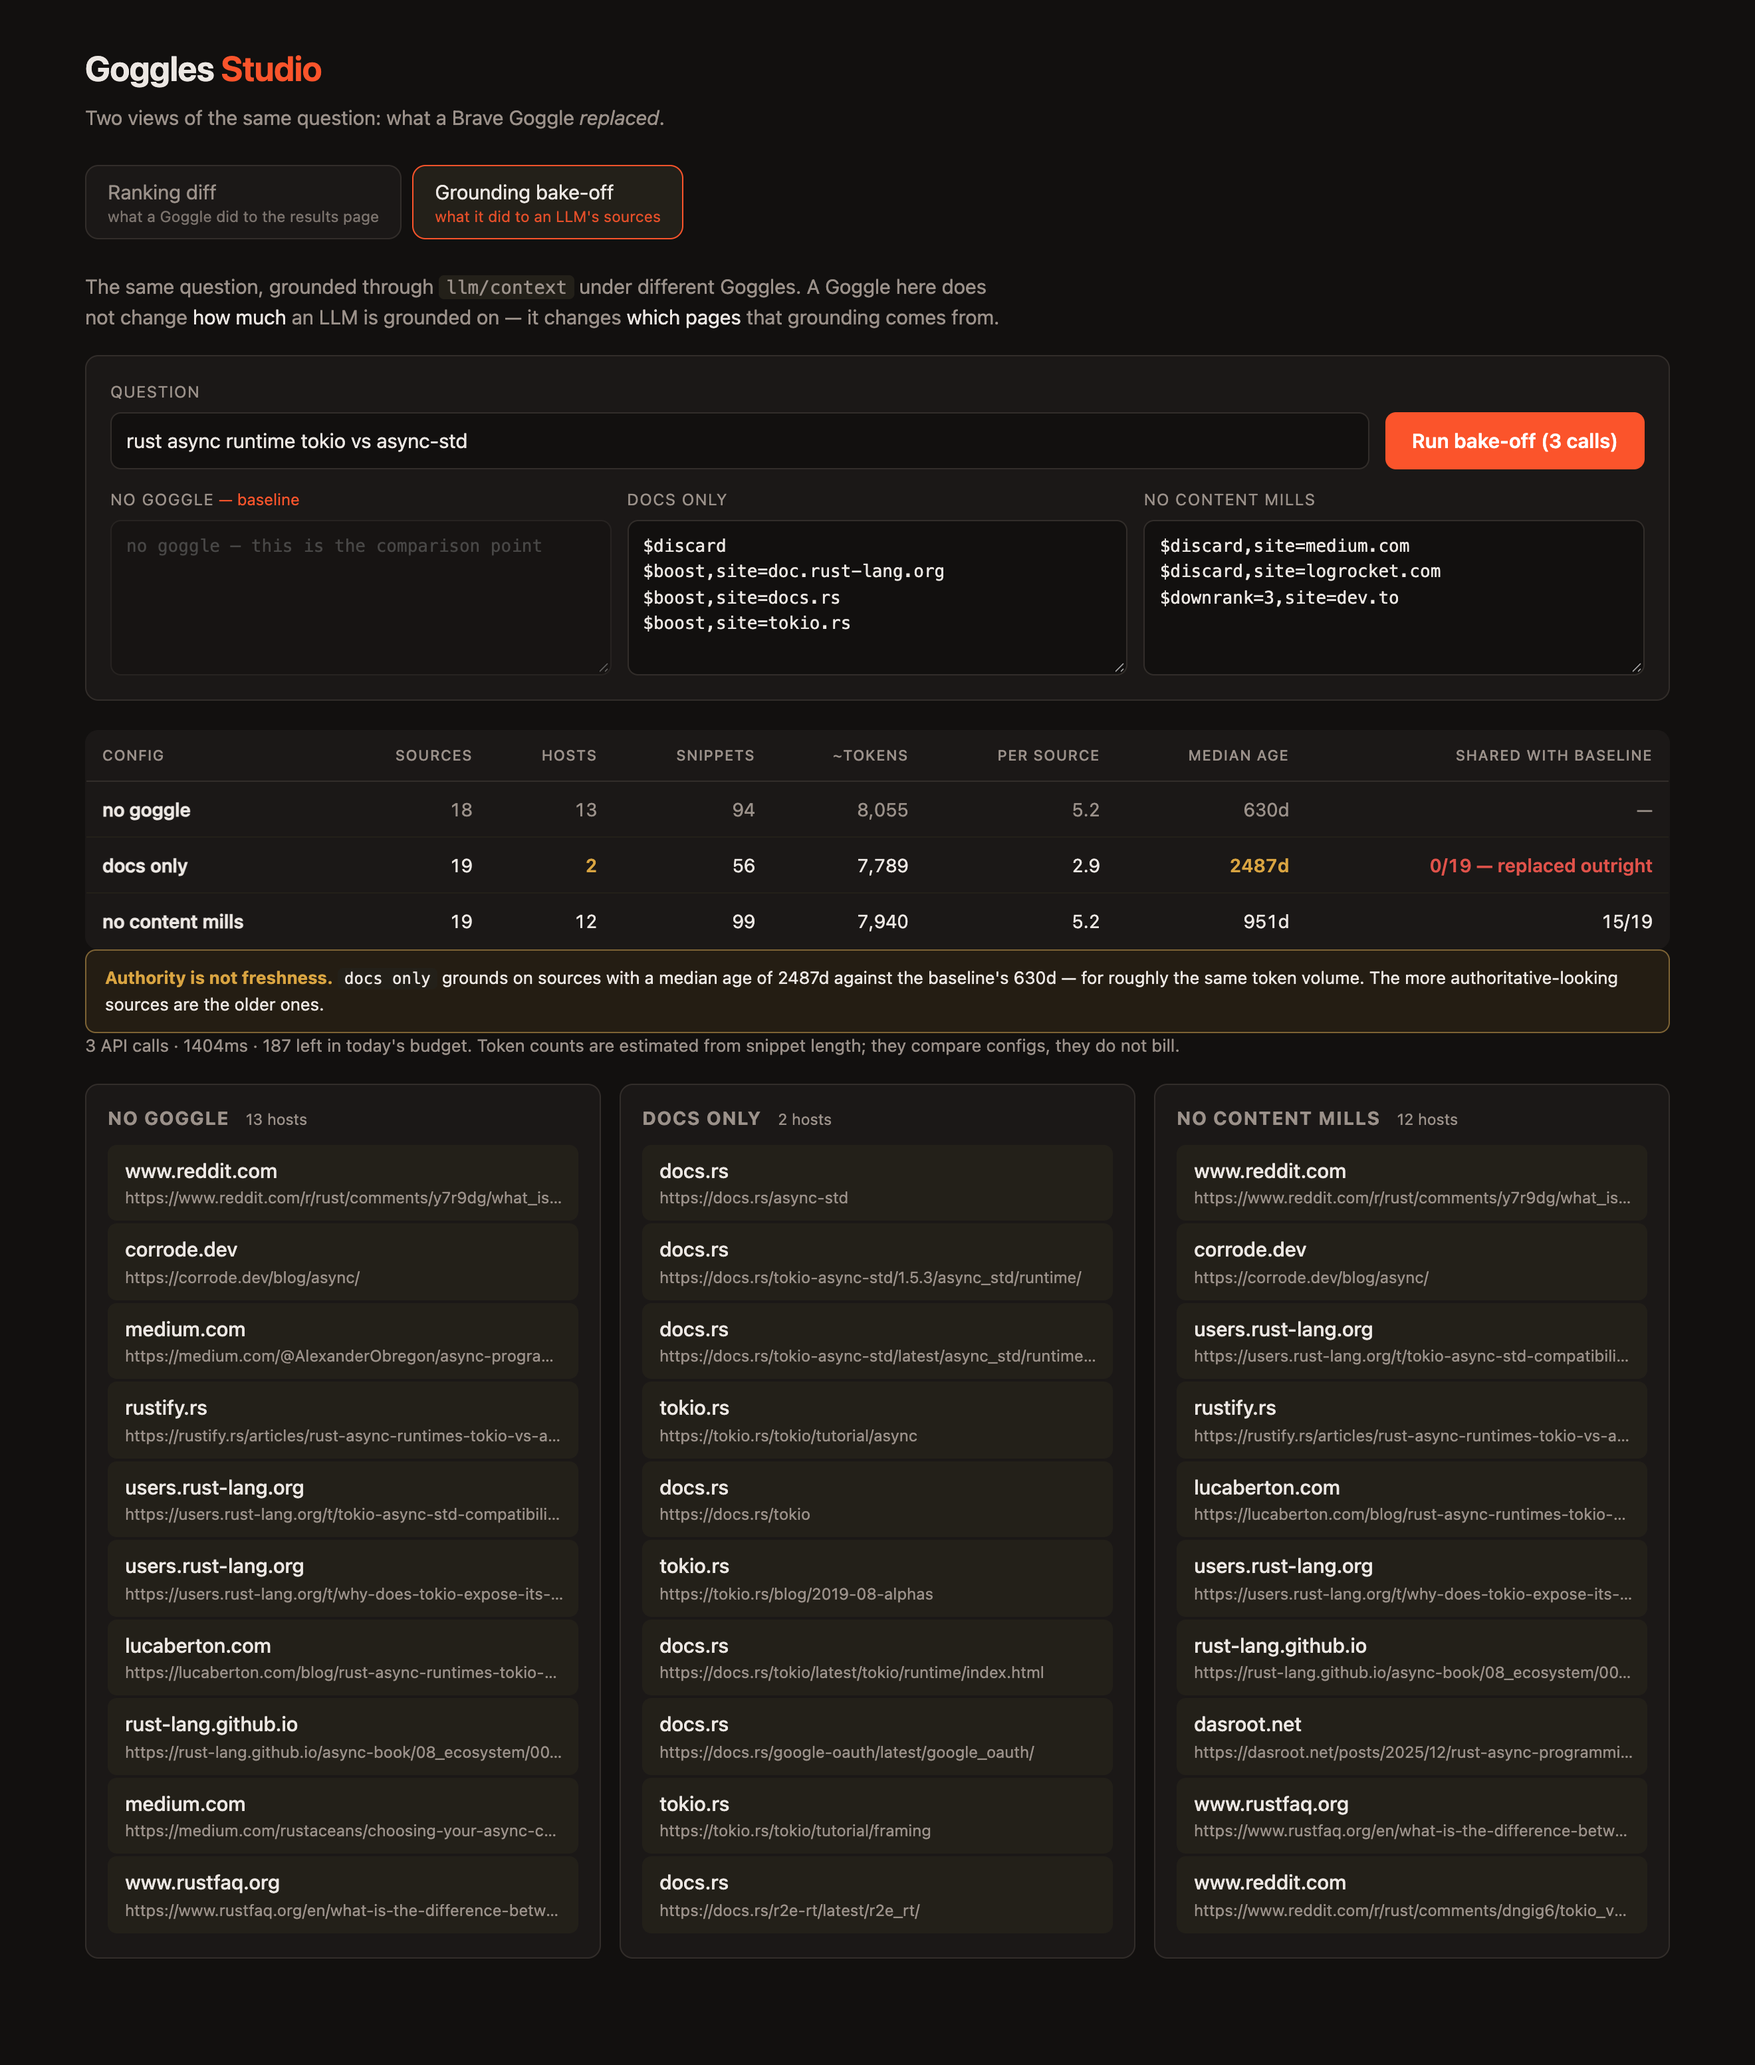
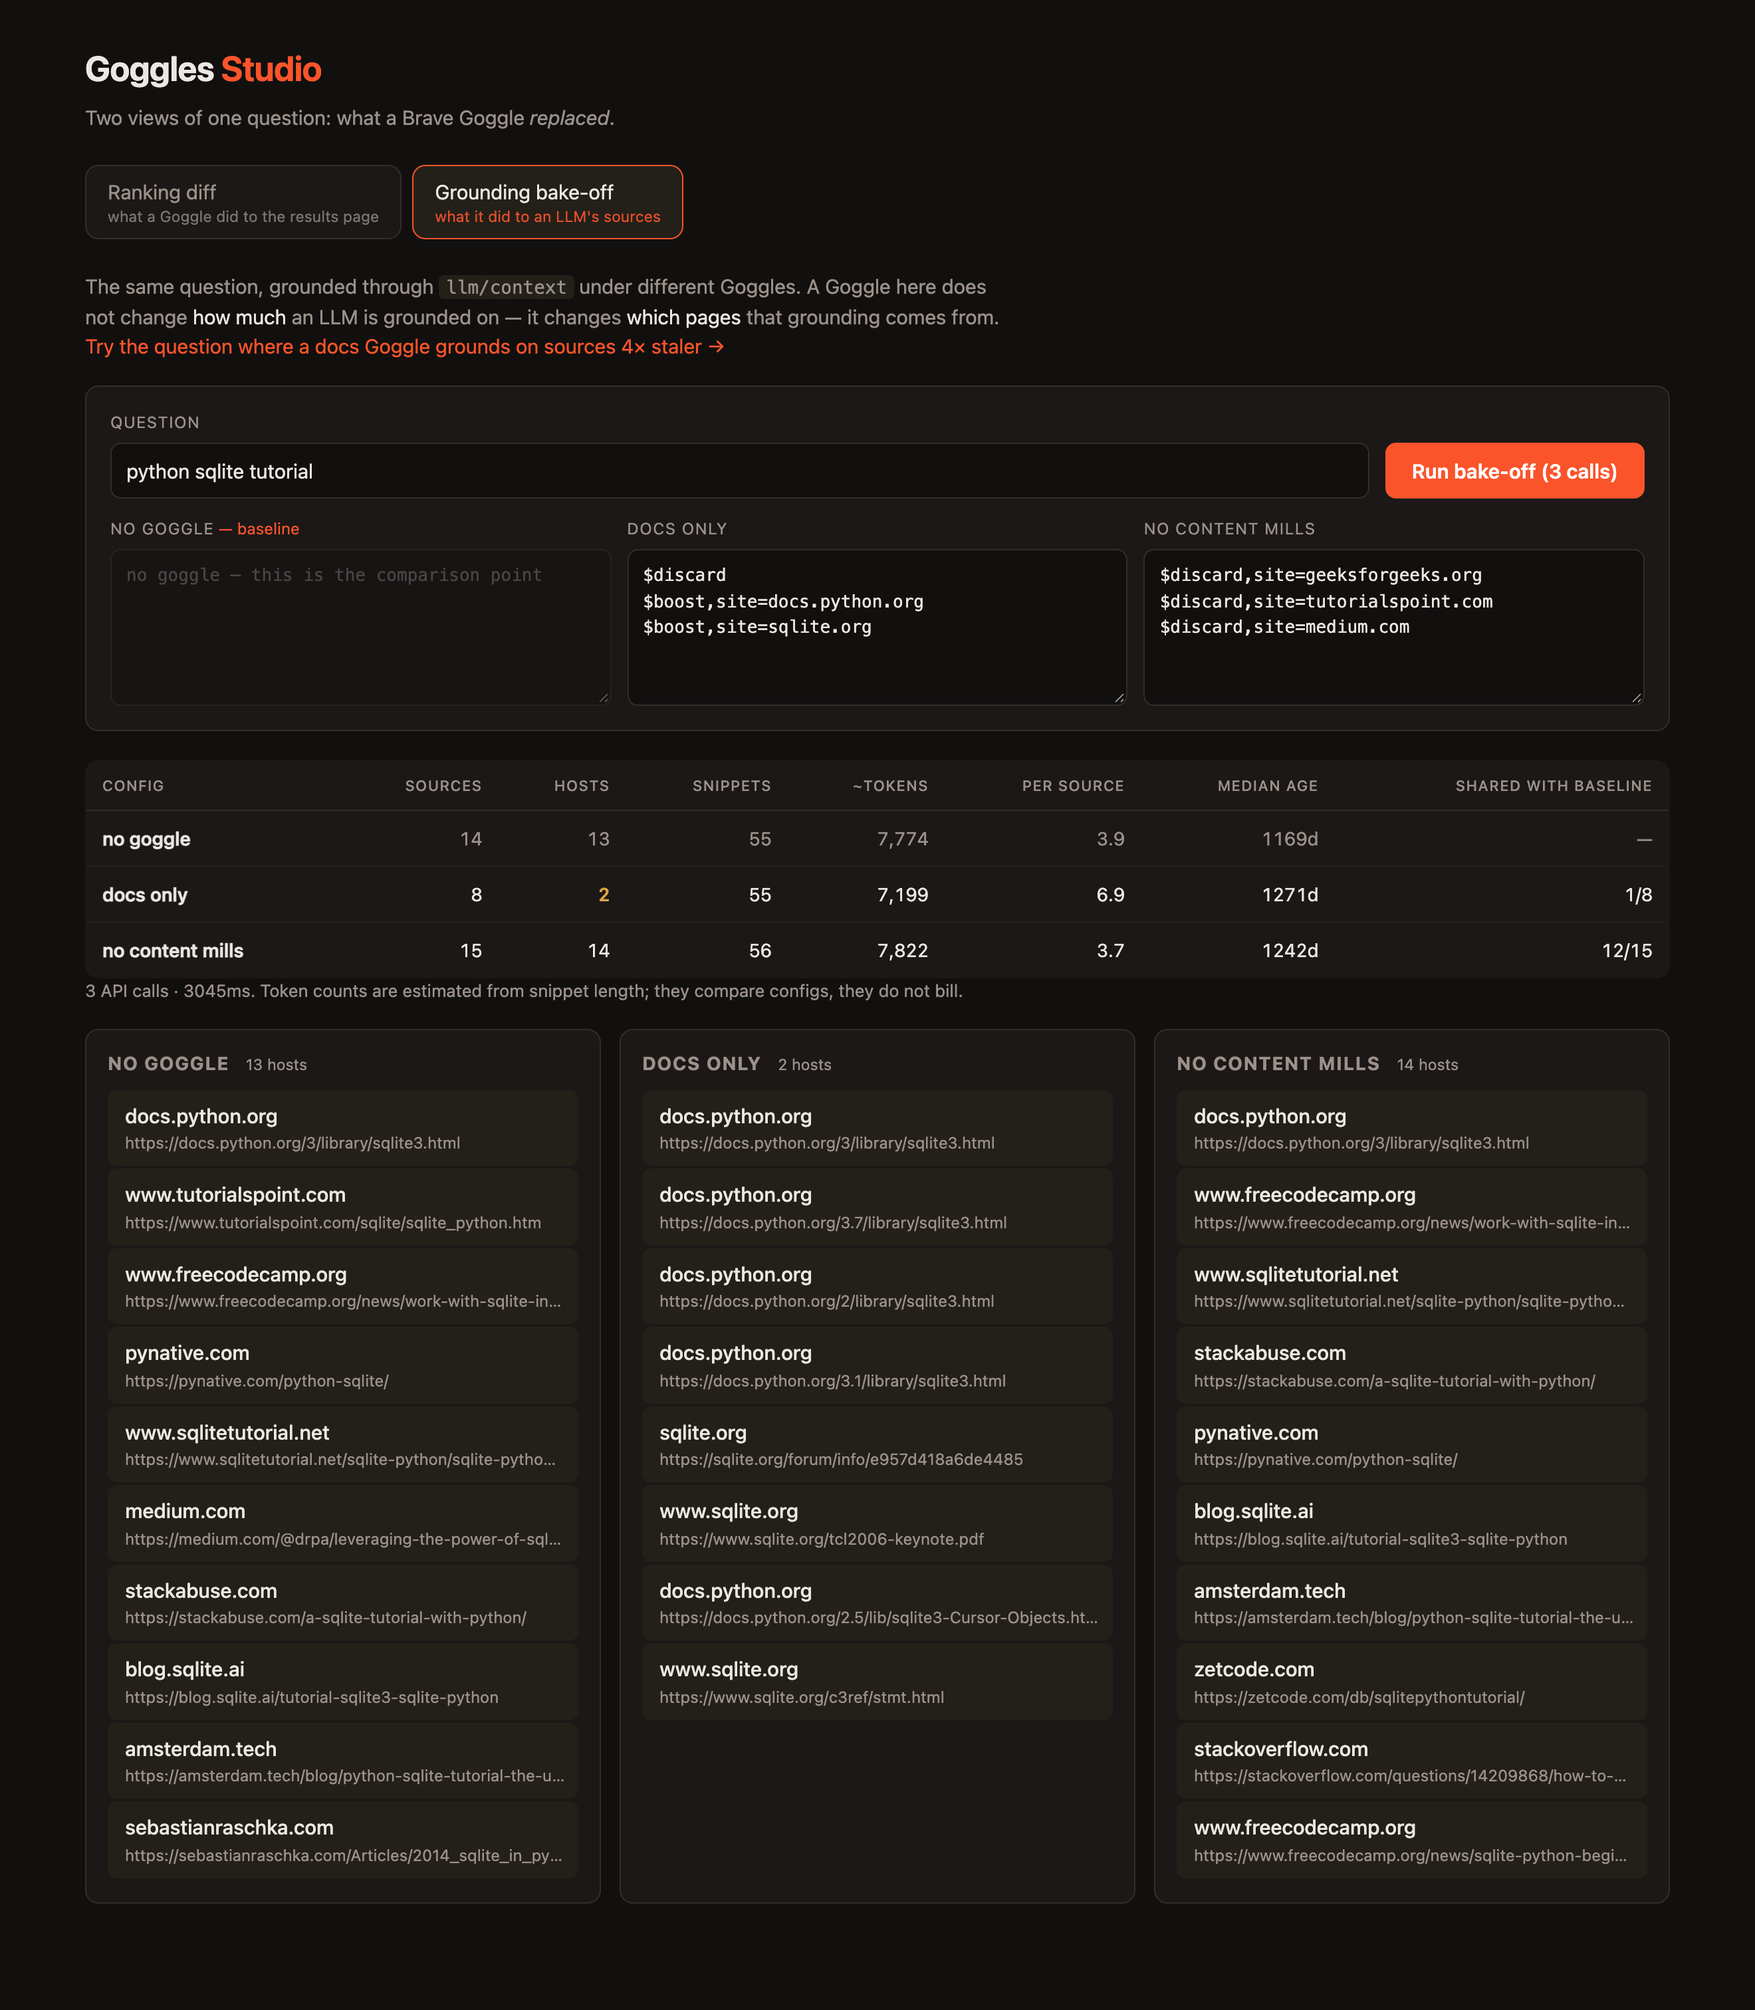
Share one query across both tabs
A short demo should ask the viewer to hold a single question in their head
while the two views change around it, so the query now lives in the shell and
both tabs read and write it. The bake-off's Goggles move from Rust hosts to
the Python ones that match the shared query.

That costs the freshness headline: on "python sqlite tutorial" the median
source age barely moves, where on the Rust question a docs Goggle grounded on
sources four times staler. The Rust case is kept as a one-click example in the
bake-off rather than lost.

The Python query turns out to demo the core point better anyway, because the
grounding sources are directly comparable to the ranking results on the other
tab. Of the 8 sources a docs-only Goggle grounds on, five are the same sqlite3
page at different Python versions and one is a Tcl keynote from 2006 — the
same $boost overshoot the ranking tab detects, one layer down.

diff --git a/src/ui/components/BakeOff.tsx b/src/ui/components/BakeOff.tsx
@@ -1,6 +1,6 @@
 import { useState } from 'react'
 import type { GroundingSummary, BaselineComparison } from '../../lib/grounding.js'
-import { GROUND_CONFIGS, GROUND_QUERY } from '../groundPresets.js'
+import { GROUND_CONFIGS, FRESHNESS_EXAMPLE } from '../groundPresets.js'
 
 interface ConfigResult {
   name: string
@@ -19,8 +19,12 @@ interface GroundResponse {
 
 const days = (n: number | null) => (n === null ? '—' : `${Math.round(n)}d`)
 
-export function BakeOff() {
-  const [query, setQuery] = useState(GROUND_QUERY)
+interface Props {
+  query: string
+  setQuery: (q: string) => void
+}
+
+export function BakeOff({ query, setQuery }: Props) {
   const [configs, setConfigs] = useState(GROUND_CONFIGS)
   const [data, setData] = useState<GroundResponse | null>(null)
   const [error, setError] = useState<string | null>(null)
@@ -46,6 +50,13 @@ export function BakeOff() {
     }
   }
 
+  /** Loads the question where the freshness gap is largest, Goggles and all. */
+  function loadFreshnessExample() {
+    setQuery(FRESHNESS_EXAMPLE.query)
+    setConfigs(FRESHNESS_EXAMPLE.configs)
+    setData(null)
+  }
+
   function editGoggle(i: number, goggle: string) {
     setConfigs((prev) => prev.map((c, j) => (j === i ? { ...c, goggle } : c)))
   }
@@ -64,7 +75,10 @@ export function BakeOff() {
       <p className="lede">
         The same question, grounded through <code>llm/context</code> under different Goggles.
         A Goggle here does not change <em>how much</em> an LLM is grounded on — it changes
-        <em> which pages</em> that grounding comes from.
+        <em> which pages</em> that grounding comes from.{' '}
+        <button className="linky" onClick={loadFreshnessExample}>
+          Try the question where a docs Goggle grounds on sources 4× staler →
+        </button>
       </p>
 
       <section className="controls">

diff --git a/src/ui/groundPresets.ts b/src/ui/groundPresets.ts
@@ -1,19 +1,41 @@
 /** A bake-off always starts from the ungoggled baseline the rest are measured against. */
-export const GROUND_QUERY = 'rust async runtime tokio vs async-std'
-
 export const GROUND_CONFIGS: { name: string; goggle: string }[] = [
   { name: 'no goggle', goggle: '' },
   {
     name: 'docs only',
     goggle: `$discard
-$boost,site=doc.rust-lang.org
-$boost,site=docs.rs
-$boost,site=tokio.rs`,
+$boost,site=docs.python.org
+$boost,site=sqlite.org`,
   },
   {
     name: 'no content mills',
-    goggle: `$discard,site=medium.com
-$discard,site=logrocket.com
-$downrank=3,site=dev.to`,
+    goggle: `$discard,site=geeksforgeeks.org
+$discard,site=tutorialspoint.com
+$discard,site=medium.com`,
   },
 ]
+
+/**
+ * A second question where the freshness gap is stark: boosting Rust's doc hosts
+ * grounds on sources roughly four times staler than the baseline. Offered as a
+ * one-click example so the default demo can stay on a single query.
+ */
+export const FRESHNESS_EXAMPLE = {
+  query: 'rust async runtime tokio vs async-std',
+  configs: [
+    { name: 'no goggle', goggle: '' },
+    {
+      name: 'docs only',
+      goggle: `$discard
+$boost,site=doc.rust-lang.org
+$boost,site=docs.rs
+$boost,site=tokio.rs`,
+    },
+    {
+      name: 'no content mills',
+      goggle: `$discard,site=medium.com
+$discard,site=logrocket.com
+$downrank=3,site=dev.to`,
+    },
+  ],
+}

diff --git a/src/ui/App.tsx b/src/ui/App.tsx
@@ -1,6 +1,7 @@
 import { useState } from 'react'
 import { RankingDiff } from './components/RankingDiff.js'
 import { BakeOff } from './components/BakeOff.js'
+import { PRESETS } from './presets.js'
 
 type Tab = 'ranking' | 'grounding'
 
@@ -11,6 +12,9 @@ const TABS: { id: Tab; label: string; blurb: string }[] = [
 
 export function App() {
   const [tab, setTab] = useState<Tab>('ranking')
+  // One query across both tabs: a short demo should only ask the viewer to hold
+  // a single question in their head while the two views change around it.
+  const [query, setQuery] = useState(PRESETS[0]!.query)
 
   return (
     <div className="app">
@@ -19,7 +23,7 @@ export function App() {
           Goggles <span>Studio</span>
         </h1>
         <p className="tagline">
-          Two views of the same question: what a Brave Goggle <em>replaced</em>.
+          Two views of one question: what a Brave Goggle <em>replaced</em>.
         </p>
         <nav className="tabs">
           {TABS.map((t) => (
@@ -35,7 +39,11 @@ export function App() {
         </nav>
       </header>
 
-      {tab === 'ranking' ? <RankingDiff /> : <BakeOff />}
+      {tab === 'ranking' ? (
+        <RankingDiff query={query} setQuery={setQuery} />
+      ) : (
+        <BakeOff query={query} setQuery={setQuery} />
+      )}
     </div>
   )
 }

diff --git a/src/ui/styles.css b/src/ui/styles.css
@@ -192,3 +192,9 @@ table.bake .gone { color: var(--gone); font-weight: 600; }
 .source-lists { display: grid; grid-template-columns: repeat(auto-fit, minmax(280px, 1fr)); gap: 14px; margin-top: 18px; }
 .source-lists .column ol { counter-reset: none; }
 .source-lists .column li { grid-template-columns: 1fr; }
+
+button.linky {
+  background: none; border: 0; padding: 0; font: inherit; color: var(--brave);
+  cursor: pointer; text-align: left;
+}
+button.linky:hover { text-decoration: underline; }

diff --git a/src/ui/components/RankingDiff.tsx b/src/ui/components/RankingDiff.tsx
@@ -21,9 +21,13 @@ interface CompareResponse {
   }
 }
 
-export function RankingDiff() {
+interface Props {
+  query: string
+  setQuery: (q: string) => void
+}
+
+export function RankingDiff({ query, setQuery }: Props) {
   const first = PRESETS[0]!
-  const [query, setQuery] = useState(first.query)
   const [goggle, setGoggle] = useState(first.goggle)
   const [data, setData] = useState<CompareResponse | null>(null)
   const [error, setError] = useState<string | null>(null)

diff --git a/README.md b/README.md
@@ -82,32 +82,36 @@ That is not obvious from the syntax, where all three read like symmetric knobs.
 
 ![The same question grounded through llm/context under three different Goggles](docs/bakeoff.png)
 
-The second tab runs one question through `llm/context` under several Goggles and
-compares the grounding sets. Two results, both from the live API:
+The second tab runs the **same question** through `llm/context` under several Goggles
+and compares the grounding sets. Both tabs share one query deliberately — the point is
+to change the lens, not the subject.
 
-**A Goggle does not make grounding cheaper — it changes who fills the budget.** The
-same question returned ~8,000 estimated tokens with no Goggle, with a docs-only
-Goggle, and with a spam-filtering one. What changed was composition: the docs-only
-Goggle shared **zero of 18 sources** with the baseline and collapsed host diversity
-from 13 to 2, while a targeted `$discard` kept 15 of 19.
+**A Goggle does not make grounding cheaper — it changes who fills the budget.**
 
-**Authority is not freshness, and only one of them is visible without measuring.**
+| Goggle | Sources | Hosts | ~Tokens | Snippets/source | Shared with baseline |
+|---|---|---|---|---|---|
+| none | 14 | 13 | 7,774 | 3.9 | — |
+| docs only | 8 | **2** | 7,199 | **6.9** | **1/8** |
+| no content mills | 15 | 14 | 7,822 | 3.7 | 12/15 |
 
-| Goggle | Hosts | ~Tokens | Median source age | Shared with baseline |
-|---|---|---|---|---|
-| none | 13 | 8,030 | 630 days | — |
-| docs only | 2 | 7,929 | **2,476 days** | 0/20 |
-| no content mills | 12 | 7,985 | 951 days | 15/19 |
+The token volume barely moves. What moves is composition: `docs only` shares a single
+source with the baseline and collapses 13 hosts to 2, while packing nearly twice as
+many snippets into each surviving source. A targeted `$discard` keeps 12 of 15 and
+*raises* host count.
 
-Boosting `doc.rust-lang.org`, `docs.rs` and `tokio.rs` for a question about *tokio vs
-async-std* produced grounding with a median age of nearly seven years — four times
-staler than the ungoggled baseline, for the same token volume. Among what it pulled in:
-`tokio.rs/blog/2019-08-alphas` and `docs.rs/google-oauth`. The sources look more
-authoritative and are substantially worse for the question.
+And the overshoot from the ranking tab reappears here, one layer down. Of the 8 sources
+`docs only` grounds on, five are the same `sqlite3` page at different Python versions —
+`/3/`, `/3.7/`, `/2/`, `/3.1/`, `/2.5/` — alongside `sqlite.org/tcl2006-keynote.pdf`, a
+Tcl conference keynote from 2006. `$boost` promotes a whole host, so it reaches past
+the page you wanted into that host's archives.
 
-This is the same failure the ranking tab detects, one layer down: `$boost` promotes a
-whole host, so it reaches past the pages you wanted into everything else that host
-publishes.
+**Authority is not freshness.** On a faster-moving question the gap is starker. The
+in-app link loads *"rust async runtime tokio vs async-std"*, where boosting
+`doc.rust-lang.org`, `docs.rs` and `tokio.rs` grounds on sources with a median age of
+**2,476 days** against the baseline's 630 — four times staler for the same token
+volume, including a 2019 alpha announcement and an unrelated OAuth crate. The sources
+look more authoritative and are substantially worse for the question, and nothing in
+the response says so.
 
 ## Design
 
